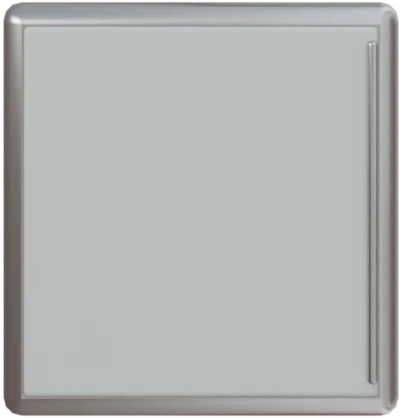
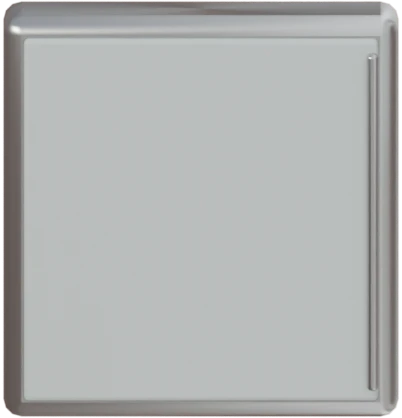
Barista bar top and machine bodies re-rendered in Blender from a barista's eye height (tilted slab with back rail and front lip, bodies seen slightly from above)

Changed region(s): [[0.0, 0.0, 1.0, 0.2799], [0.0, 0.9019, 0.9851, 1.0]]

diff --git a/css/bar.css b/css/bar.css
@@ -24,7 +24,7 @@
 .counter {
   margin-bottom: 30px;
   /* the marble bar top is a Blender render (tools/blender/cafe.py); the front below it is a walnut strip that tiles sideways */
-  background: url(../assets/cafe/counter-top.webp?v=40) 0 0 / 100% 100% no-repeat, #ece5db;
+  background: url(../assets/cafe/counter-top.webp?v=44) 0 0 / 100% 100% no-repeat, #ece5db;
   box-shadow: inset 0 -10px 14px -6px rgba(120,100,80,.25), inset 0 8px 10px -6px rgba(60,40,25,.35);
 }
 .counter::after {
@@ -86,7 +86,7 @@
 }
 .hopper-lid { position: absolute; left: -3px; right: -3px; top: -1px; height: 8px; background: linear-gradient(#4a3532, #241614); border-radius: 4px; z-index: 2; }
 .grinder-body {
-  background: url(../assets/cafe/grinder.webp?v=40) 0 0 / 100% 100% no-repeat; border: 0; border-radius: 14px 14px 8px 8px;
+  background: url(../assets/cafe/grinder.webp?v=44) 0 0 / 100% 100% no-repeat; border: 0; border-radius: 14px 14px 8px 8px;
   box-shadow: 7px 11px 12px -5px rgba(40,20,10,.42);
 }
 .grinder-body .chute { background: none; border: 0; height: 14px; bottom: -14px; }
@@ -131,7 +131,7 @@
   /* the steel body with its enamel side panels is a Blender render; a soft sheen on top gives the brushed steel its light */
   background:
     linear-gradient(105deg, rgba(255,255,255,.5) 0, rgba(255,255,255,0) 28%, rgba(255,255,255,0) 70%, rgba(40,60,70,.16) 100%),
-    url(../assets/cafe/machine.webp?v=40) 0 0 / 100% 100% no-repeat;
+    url(../assets/cafe/machine.webp?v=44) 0 0 / 100% 100% no-repeat;
   border-radius: 16px 16px 8px 8px;
   box-shadow: 9px 14px 14px -6px rgba(40,20,10,.45);
 }
@@ -189,7 +189,7 @@
 
 /* ---------- milk: under-counter fridge with a glass door, steel pitcher ---------- */
 .fridge {
-  position: relative; padding: 7px; background: url(../assets/cafe/fridge.webp?v=40) 0 0 / 100% 100% no-repeat; border: 0; border-radius: 10px;
+  position: relative; padding: 7px; background: url(../assets/cafe/fridge.webp?v=44) 0 0 / 100% 100% no-repeat; border: 0; border-radius: 10px;
   box-shadow: 7px 11px 12px -5px rgba(40,20,10,.42);
 }
 .fridge .bottles { position: relative; padding: 8px 14px 6px 6px; overflow: hidden; background: none; border: 0; }
@@ -358,7 +358,7 @@ img.hotwater { position: absolute; left: 2px; top: -40px; width: auto; height: 3
   background:
     linear-gradient(rgba(70,48,32,.5), rgba(70,48,32,0) 30%),
     linear-gradient(0deg, rgba(255,255,255,.34), rgba(255,255,255,0) 22%),
-    url(../assets/cafe/counter-top.webp?v=40) 0 0 / 100% 100% no-repeat, #ece5db;
+    url(../assets/cafe/counter-top.webp?v=44) 0 0 / 100% 100% no-repeat, #ece5db;
   box-shadow: inset 0 3px 0 #b9ab98, inset 0 -10px 14px -6px rgba(120,100,80,.25), 0 -3px 8px rgba(40,25,15,.25);
 }
 /* the far rail where the bar top meets the shelves, and the near edge catching the light */
@@ -370,5 +370,3 @@ img.hotwater { position: absolute; left: 2px; top: -40px; width: auto; height: 3
 }
 .machine, .grinder-body, .fridge { box-shadow: none; }
 .cam .counter { --far: 14px; }
-/* everything stands on the near side of the bar top, the way it lies under a barista's hands, not hung from the far edge */
-.counter > .zone { align-self: end; }

diff --git a/sw.js b/sw.js
@@ -2,10 +2,10 @@
    too. The page itself is fetched from the network first (so a new version shows up at once) and from the cache when
    offline; everything else comes from the cache and is fetched only the first time. Bump VERSION with every release
    (together with the ?v= on the links in index.html): the old cache is then dropped. */
-const VERSION = 'cafe-cb-46';
+const VERSION = 'cafe-cb-48';
 const CORE = [
   './', 'index.html', 'manifest.webmanifest', 'style.css?v=41',
-  'css/scene.css?v=41', 'css/fx.css?v=41', 'css/views.css?v=41', 'css/bar.css?v=43', 'css/theme.css?v=41', 'css/helper.css?v=41', 'css/stage.css?v=42', 'css/intro.css?v=41',
+  'css/scene.css?v=41', 'css/fx.css?v=41', 'css/views.css?v=41', 'css/bar.css?v=45', 'css/theme.css?v=41', 'css/helper.css?v=41', 'css/stage.css?v=42', 'css/intro.css?v=41',
   'js/intro.js?v=41', 'js/util.js?v=41', 'js/economy.js?v=41', 'js/i18n.js?v=41', 'js/audio.js?v=41', 'js/recipe.js?v=41', 'js/render.js?v=41', 'js/scene.js?v=41', 'js/fx.js?v=41',
   'js/station.js?v=41', 'js/camera.js?v=41', 'js/helper.js?v=41', 'js/tutorial.js?v=41', 'js/main.js?v=41',
   'assets/favicon-64.png', 'assets/icon-192.png', 'assets/icon-512.png', 'assets/icon-512-any.png', 'assets/apple-touch-icon.png',

diff --git a/index.html b/index.html
@@ -21,7 +21,7 @@
 <link rel="stylesheet" href="css/scene.css?v=41">
 <link rel="stylesheet" href="css/fx.css?v=41">
 <link rel="stylesheet" href="css/views.css?v=41">
-<link rel="stylesheet" href="css/bar.css?v=43">
+<link rel="stylesheet" href="css/bar.css?v=45">
 <link rel="stylesheet" href="css/theme.css?v=41">
 <link rel="stylesheet" href="css/helper.css?v=41">
 <link rel="stylesheet" href="css/stage.css?v=42">

diff --git a/tools/blender/cafe.py b/tools/blender/cafe.py
@@ -259,11 +259,16 @@ def backbar():
 def counter_top():
     sc = stage(line=0); lights(key=2.0)
     sc.render.use_freestyle = False; sc.view_settings.exposure = 0.7
-    W, D = 100, 40
+    # the bar top as a barista sees it: a real slab lying in depth, looked at from about 36 degrees above. The far edge
+    # has a low back rail where it meets the shelves, the near edge a rounded lip that catches the light.
+    W, T = 100, 4.0
+    tilt = 36.0
+    D = (40 - T * math.cos(math.radians(tilt))) / math.sin(math.radians(tilt))
     mar = tex_mat('marbletop', 'marble', scale=(1, 1, 1))
-    # the bar top, seen from above: the front lip is a bevelled edge that catches the light
-    bx(W, 2.4, D, (W / 2, 1.2, 0), mar, bevel=0.5)
-    shoot('counter-top', 1600, 640, W, (W / 2, D / 2), tilt=0)
+    bx(W, D, T, (W / 2, D / 2, -T), mar, bevel=0.6)
+    bx(W, 1.2, 1.1, (W / 2, D - 0.6, 0), tex_mat('marblerail', 'marble', scale=(1, 1, 1)), bevel=0.35)
+    # the picture's axis goes through the middle of the slab; shoot() wants the point where that axis crosses y = 0
+    shoot('counter-top', 1600, 640, W, (W / 2, -T / 2 + (D / 2) * math.tan(math.radians(tilt))), tilt=tilt)
 
 
 @job('counter-front')
@@ -301,7 +306,7 @@ def machine():
     for i in range(24):
         bx(0.5, 0.5, 1.8, (2.7 + i * 1.0, -3.4, 1.6), col('grill', '#2e3a40' if i % 2 else '#dfe6e9', metal=1, rough=0.3), bevel=0.1)
     bx(W - 2, 5.2, 0.7, (W / 2, 0, 0), col('foot', '#2b2422', rough=0.7), bevel=0.2)
-    shoot('machine', 600, 842, W + 1.2, (W / 2, H / 2), tilt=4)
+    shoot('machine', 600, 842, W + 1.2, (W / 2, H / 2), tilt=12)
 
 
 @job('grinder')
@@ -312,7 +317,7 @@ def grinder():
     bx(W, 5, H, (W / 2, 0, 0), dk, bevel=1.1)
     bx(W - 1.6, 5.2, 0.35, (W / 2, -0.1, H - 0.9), col('trim', '#c9d2d7', metal=1, rough=0.2), bevel=0.1)
     bx(3.0, 3, 1.4, (W / 2, -1.5, -0.3), brushed(), bevel=0.35)
-    shoot('grinder', 340, 220, W + 0.4, (W / 2, H / 2), tilt=5)
+    shoot('grinder', 340, 220, W + 0.4, (W / 2, H / 2), tilt=13)
 
 
 @job('fridge')
@@ -323,7 +328,7 @@ def fridge():
     bx(W, 5, H, (W / 2, 0, 0), st, bevel=0.9)
     bx(W - 2.0, 0.6, H - 2.0, (W / 2, -2.6, 1.0), col('inside', '#d6e9ef', rough=0.3), bevel=0.3)
     bx(0.55, 0.7, H - 3.4, (W - 1.3, -3.2, 1.7), st, bevel=0.2)
-    shoot('fridge', 402, 418, W + 0.4, (W / 2, H / 2), tilt=3)
+    shoot('fridge', 402, 418, W + 0.4, (W / 2, H / 2), tilt=12)
 
 
 # ---------------------------------------------------------------- 4. the customers' side: wall with windows, and the seating
